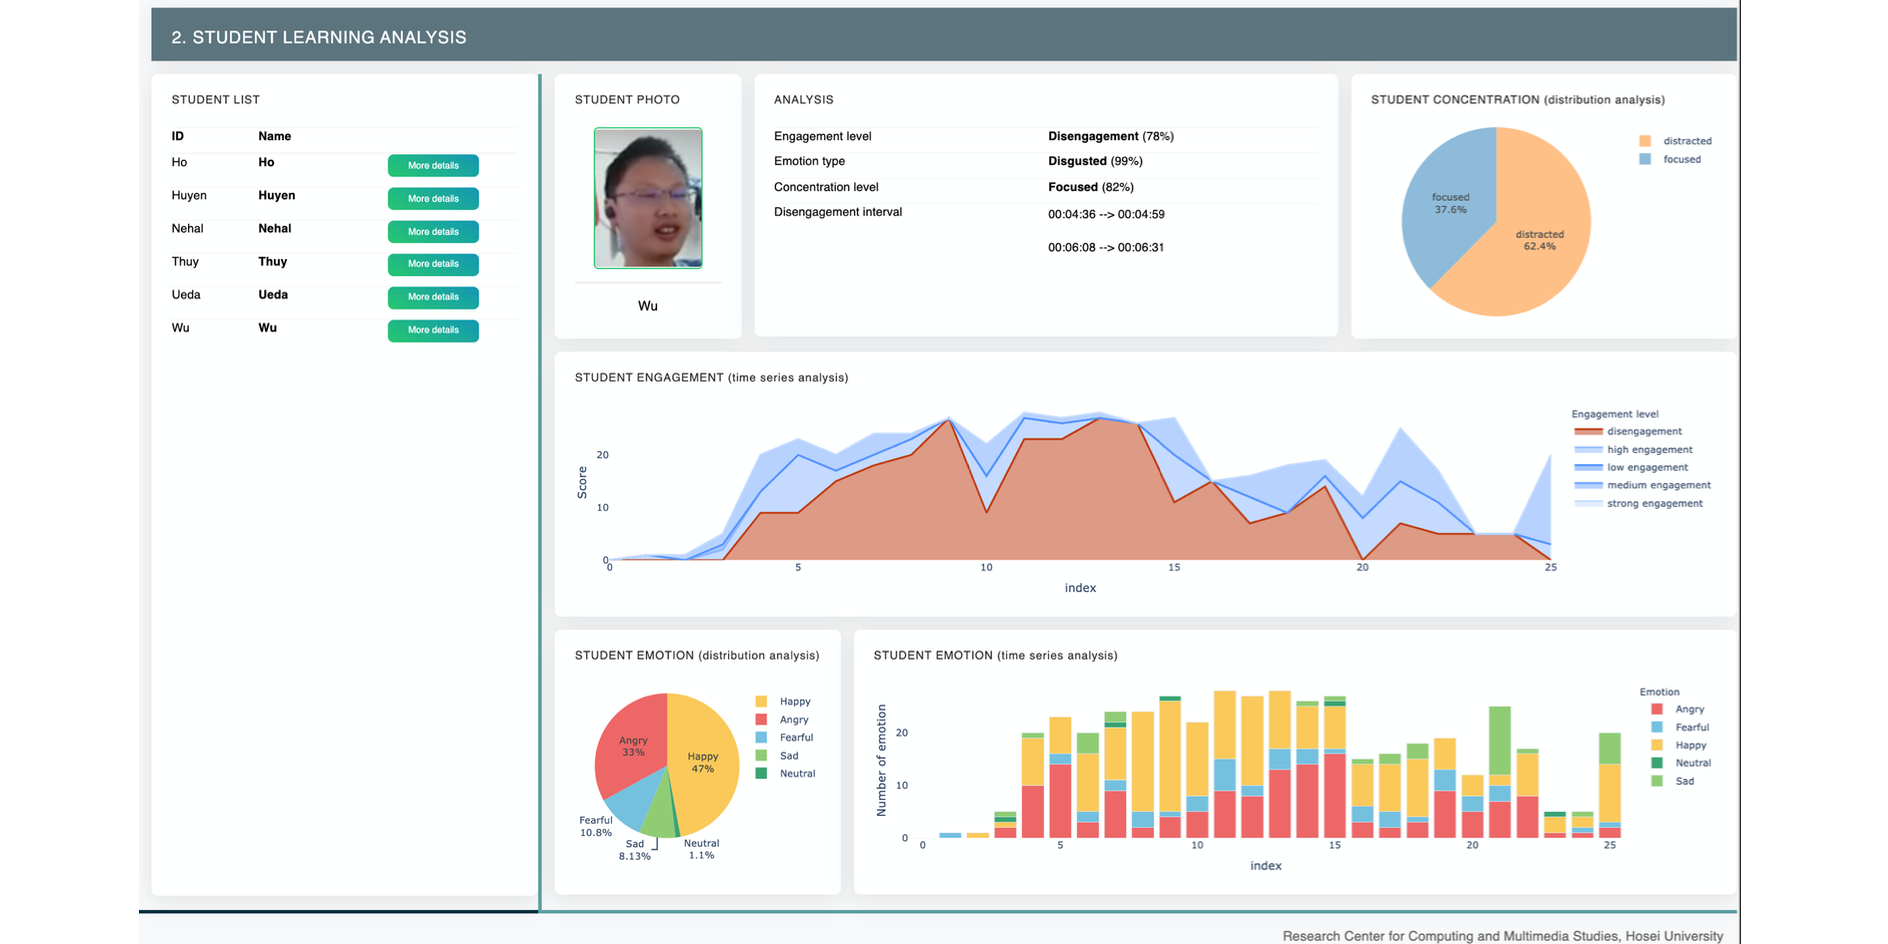
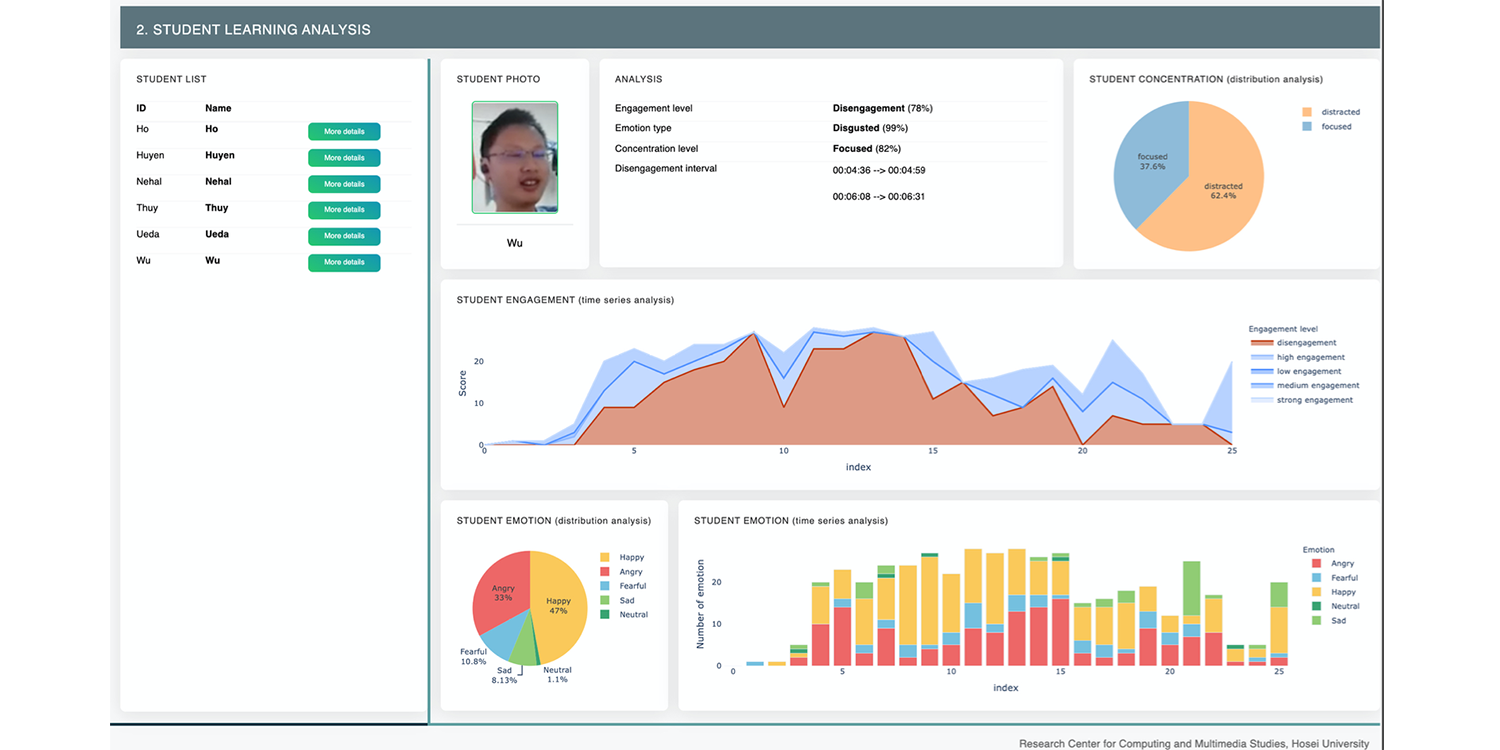
update

diff --git a/_posts/2021-12-04-moemo.md b/_posts/2021-12-04-moemo.md
@@ -51,7 +51,7 @@ We apply machine learning techniques in this research to exploit student feature
   <!-- Full-width images with number text -->
   <div class="mySlides">
     <div class="numbertext">1 / 6</div>
-      <img src="/assets/images/moemo_imgs/moemo_v2_newlayout.png" style="width:100%">
+      <img src="/assets/images/moemo_imgs/overview_visualization.png" style="width:100%">
   </div>
 
   <div class="mySlides">
@@ -91,10 +91,10 @@ We apply machine learning techniques in this research to exploit student feature
   <!-- Thumbnail images -->
   <div class="row">
     <div class="column">
-      <img class="demo cursor" src="img_woods.jpg" style="width:100%" onclick="currentSlide(1)" alt="The Woods">
+      <img class="demo cursor" src="/assets/images/moemo_imgs/overview_visualization.png" style="width:100%" onclick="currentSlide(1)" alt="The Woods">
     </div>
     <div class="column">
-      <img class="demo cursor" src="img_5terre.jpg" style="width:100%" onclick="currentSlide(2)" alt="Cinque Terre">
+      <img class="demo cursor" src="/assets/images/moemo_imgs/student_visualization.png" style="width:100%" onclick="currentSlide(2)" alt="Cinque Terre">
     </div>
     <div class="column">
       <img class="demo cursor" src="img_mountains.jpg" style="width:100%" onclick="currentSlide(3)" alt="Mountains and fjords">
